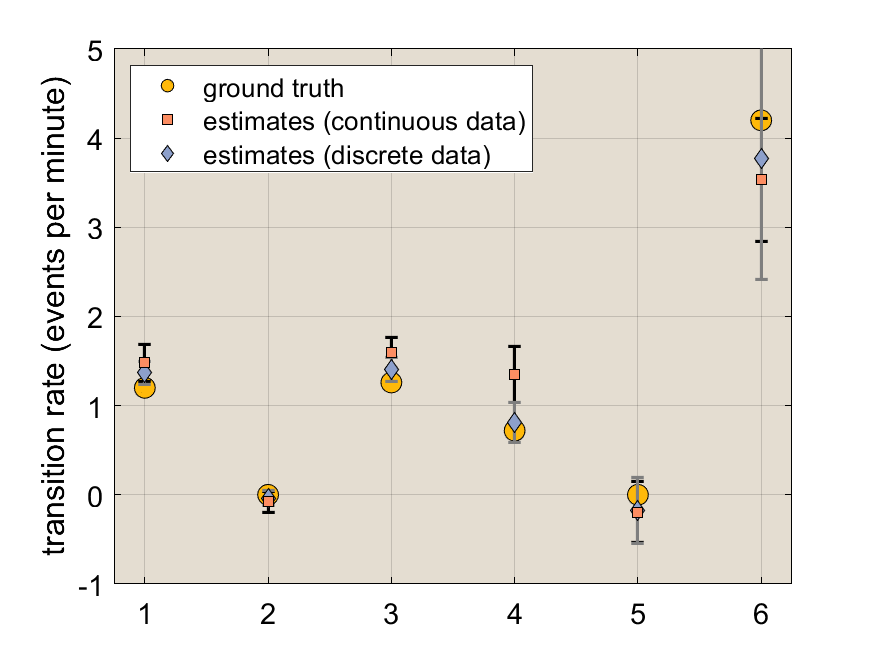
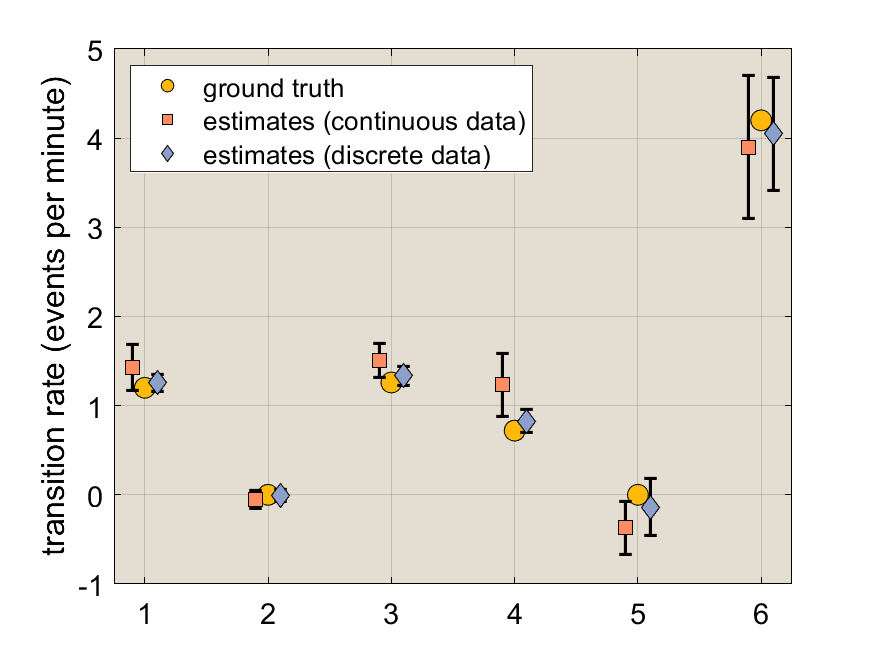
Updates to validation figures

diff --git a/src/figure_scripts/mcmc_validation.m b/src/figure_scripts/mcmc_validation.m
@@ -88,11 +88,11 @@ hold on
 cmap = brewermap([],'Set2');
 s(1) = scatter(1:3,r_true_vec,markerSize,'o','MarkerFaceColor',brighten(cmap(6,:),-0.5),'MarkerEdgeColor','k');
 % results for rate simulations
-errorbar(1:3,master_struct(1).r_mean_vec,master_struct(1).r_ste_vec,'.','Color','k','LineWidth',1.5)
-s(2) = scatter(1:3,master_struct(1).r_mean_vec,markerSize*0.5,'s','MarkerFaceColor',cmap(2,:),'MarkerEdgeColor','k');
+errorbar((1:3)-0.1,master_struct(1).r_mean_vec,master_struct(1).r_ste_vec,'.','Color','k','LineWidth',1.5)
+s(2) = scatter((1:3)-0.1,master_struct(1).r_mean_vec,markerSize*0.75,'s','MarkerFaceColor',cmap(2,:),'MarkerEdgeColor','k');
 % results for prob simulations
-errorbar(1:3,master_struct(2).r_mean_vec,master_struct(2).r_ste_vec,'.','Color',brighten(cmap(8,:),-0.5),'LineWidth',1.5)
-s(3) = scatter(1:3,master_struct(2).r_mean_vec,markerSize*0.5,'d','MarkerFaceColor',cmap(3,:),'MarkerEdgeColor','k');
+errorbar((1:3)+0.1,master_struct(2).r_mean_vec,master_struct(2).r_ste_vec,'.','Color',brighten(cmap(8,:),-0.5),'LineWidth',1.5)
+s(3) = scatter((1:3)+0.1,master_struct(2).r_mean_vec,markerSize*0.75,'d','MarkerFaceColor',cmap(3,:),'MarkerEdgeColor','k');
 
 
 % xlabel('inference step')
@@ -180,16 +180,16 @@ lin_inds = [2 3 4 6 7 8];
 R_fig = figure;
 cmap = brewermap([],'Set2');
 hold on
-
-s(1) = scatter(1:6,R_true_array(lin_inds),markerSize,'o','MarkerFaceColor',brighten(cmap(6,:),-0.5),'MarkerEdgeColor','k');
+x_vec = 1:6;
+s(1) = scatter(x_vec,R_true_array(lin_inds),markerSize,'o','MarkerFaceColor',brighten(cmap(6,:),-0.5),'MarkerEdgeColor','k');
 % results for rate simulations
-errorbar(1:6,master_struct(1).R_mean(lin_inds),master_struct(1).R_ste(lin_inds),'.','Color','k','LineWidth',1.5)
+errorbar(x_vec-0.1,master_struct(1).R_mean(lin_inds),master_struct(1).R_ste(lin_inds),'.','Color','k','LineWidth',1.5)
 % results for prob simulations
-errorbar(1:6,master_struct(2).R_mean(lin_inds),master_struct(2).R_ste(lin_inds),'.','Color',brighten(cmap(8,:),-0.5),'LineWidth',1.5)
+errorbar(x_vec+0.1,master_struct(2).R_mean(lin_inds),master_struct(2).R_ste(lin_inds),'.','Color','k','LineWidth',1.5)
 % results for rate simulations
-s(3) = scatter(1:6,master_struct(2).R_mean(lin_inds),markerSize*0.5,'d','MarkerFaceColor',cmap(3,:),'MarkerEdgeColor','k');
+s(3) = scatter(x_vec+0.1,master_struct(2).R_mean(lin_inds),markerSize*0.75,'d','MarkerFaceColor',cmap(3,:),'MarkerEdgeColor','k');
 % results for prob simulations
-s(2) = scatter(1:6,master_struct(1).R_mean(lin_inds),markerSize*0.5,'s','MarkerFaceColor',cmap(2,:),'MarkerEdgeColor','k');
+s(2) = scatter(x_vec-0.1,master_struct(1).R_mean(lin_inds),markerSize*0.75,'s','MarkerFaceColor',cmap(2,:),'MarkerEdgeColor','k');
 
 ylabel('transition rate (events per minute)')
 

diff --git a/src/figure_scripts/mcmc_illustrative.m b/src/figure_scripts/mcmc_illustrative.m
@@ -10,16 +10,16 @@ mkdir(figPath)
 
 % initialize info structure
 trueParams = setParamsBasic2state;
-trueParams.sigma = 1;
+trueParams.sigma = 2;
 
 %%%%%%%%%%%%%%%%%%%%% Simulated data %%%%%%%%%%%%%%%%
 % basic inference params 
 rng(458)
 
-n_mcmc_steps = 5e2;
+n_mcmc_steps = 1e3;
 mcmcInfo.n_mcmc_steps = n_mcmc_steps; % number of MCMC steps (need to add convergence criteria)
 mcmcInfo.burn_in = 100;
-n_chains = 1;
+n_chains = 10;
 mcmcInfo.n_chains = n_chains; % number of parallel MCMC chains to run
 mcmcInfo.n_reps = 1; % number of chain state resampling passes per inference step
 
